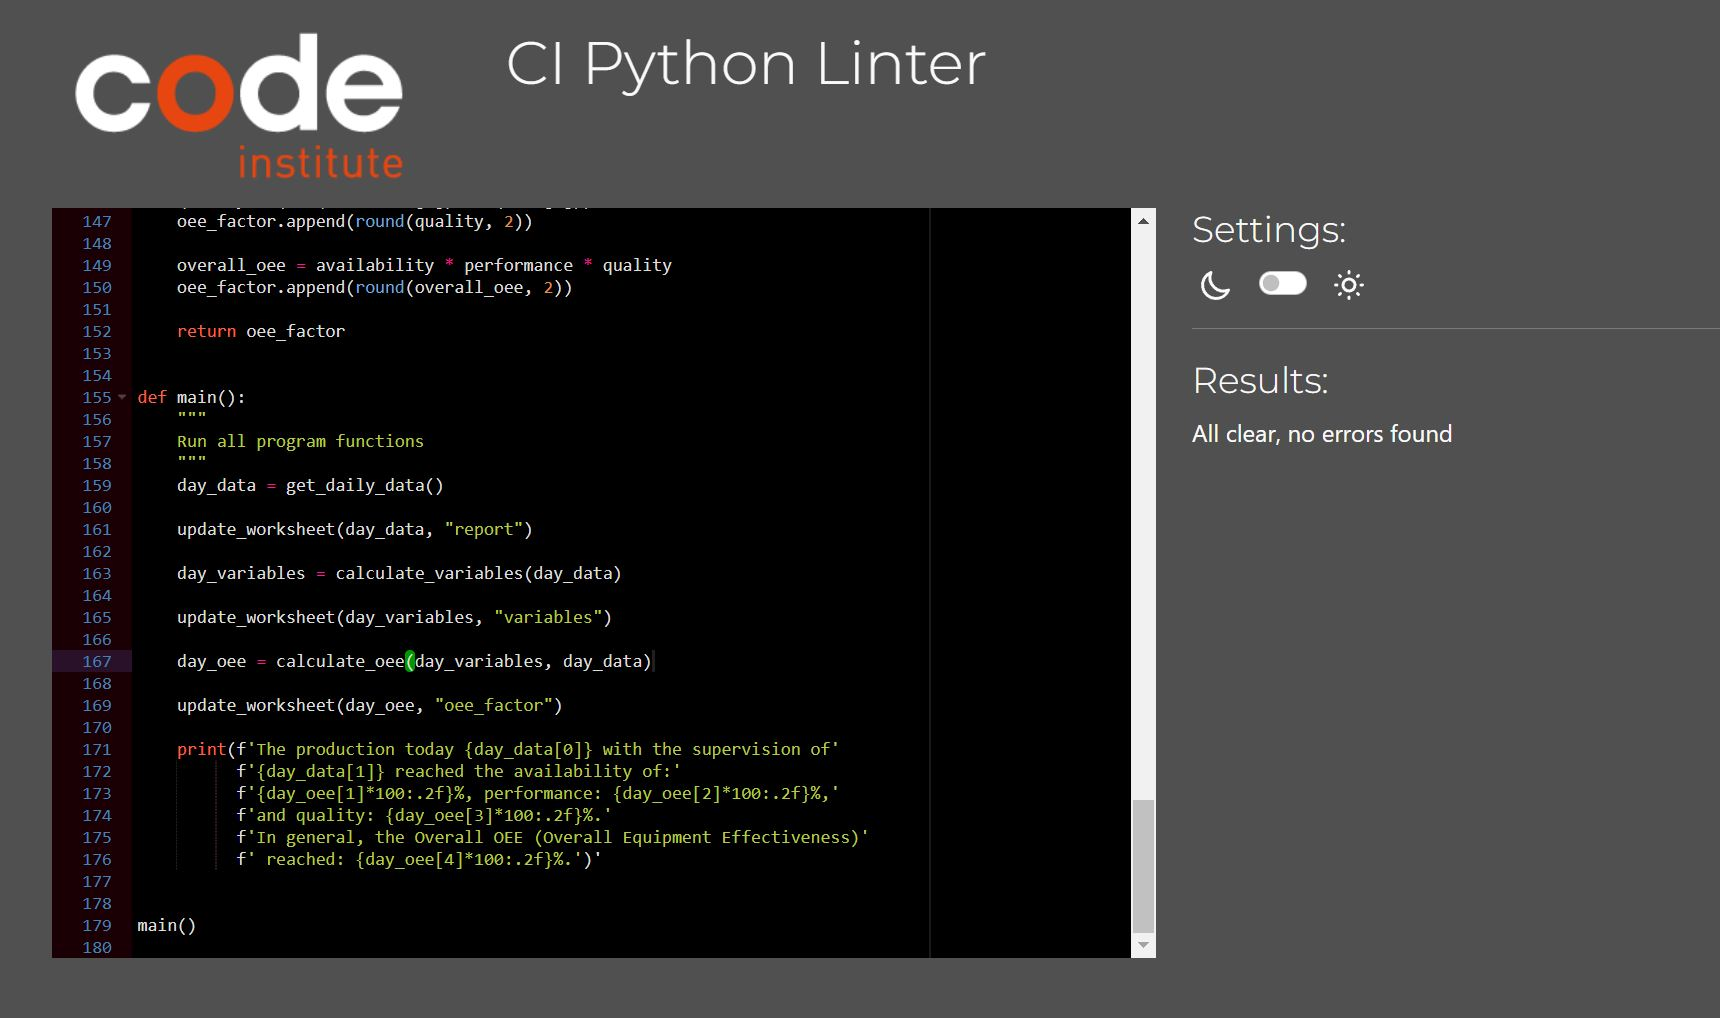
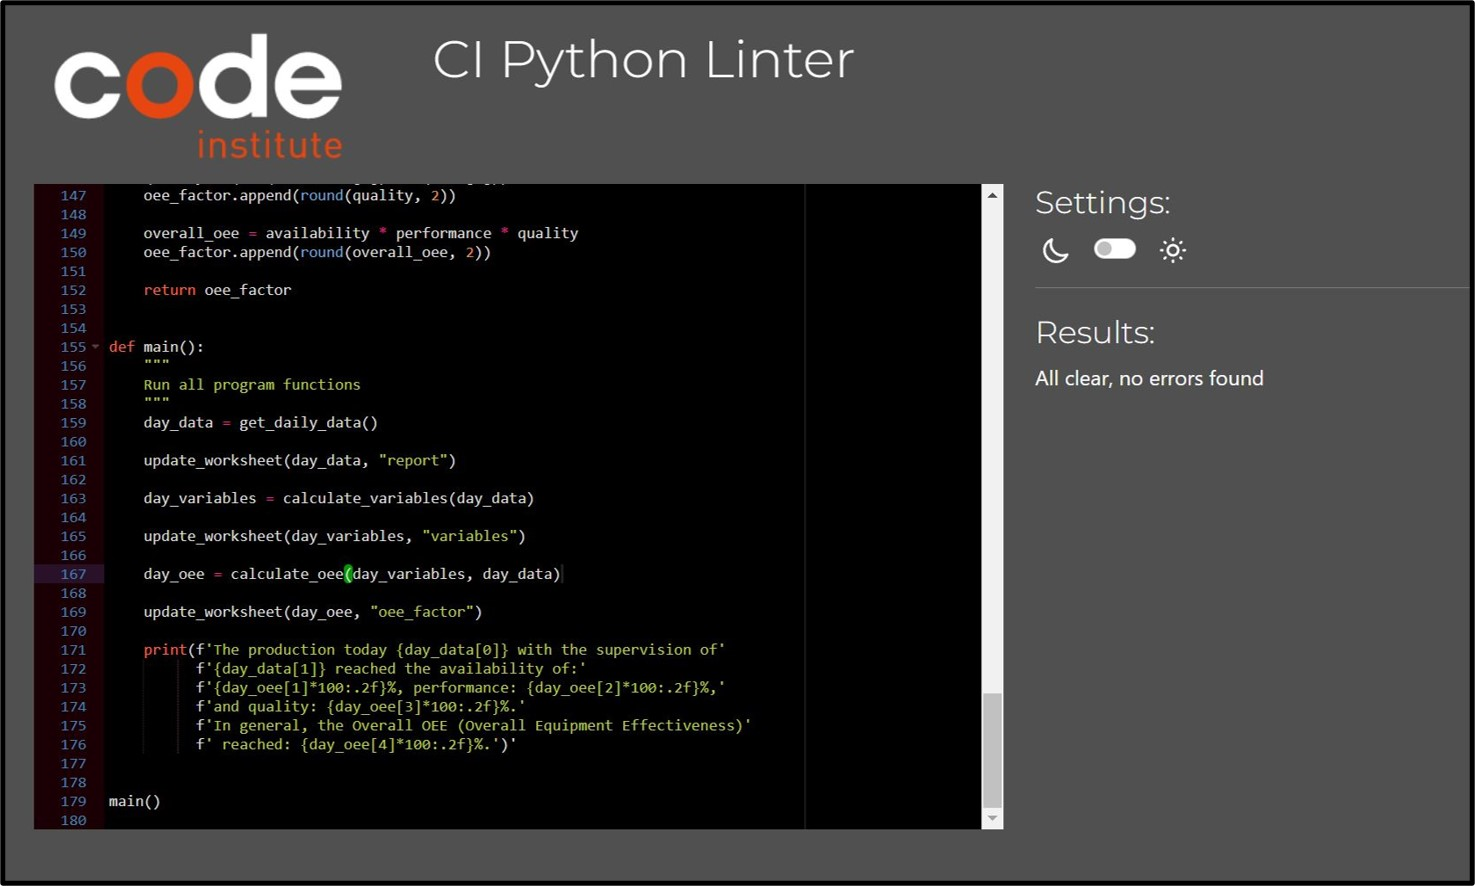
Add validation images to the readme

Changed region(s): [[0.0, 0.0, 1.0, 1.0]]

diff --git a/README.md b/README.md
@@ -134,6 +134,7 @@ The Google Sheets API enables developers to read, write, and manipulate Google S
 - **Google Cloud Services** APIs to access and manipulate cloud based files
 - **Google Drive** Store data in a googlesheet 
 - **Google Sheet** Data Storage
+- **Miro** Flowchart and design thinking
 
 # Libraries
 - **googleauth** to access googledrive and googlesheet using the api
@@ -214,8 +215,15 @@ After deployment, a batch of tests has been conducted, and the results are shown
 
 
 #### Python
-- Using the [JShint](https://jshint.com/) inspect and validate the JavaScript bellow has a image showing the result.
+- Using the [CI Python Linter - Code institute](https://pep8ci.herokuapp.com/) inspect and validate the python bellow has a image showing the result.
 
+## Before validation
+
+![Python code before validation](docs/readme_images/ci-python-code.jpg)
+
+## After validation
+
+![Python code after validation](docs/readme_images/ci-python-code-noerror.jpg)
 
 ## Deployment
 
@@ -248,7 +256,7 @@ After deployment, a batch of tests has been conducted, and the results are shown
   5. Move to the folder you want clone it
   6. In the terminal type 'git clone' & then paste the link you copied in GitHub
   7. Press enter and your local clone will be created.
-- Live link: [GitHub Link](https://github.com/Volneirj/adventurers-guild)
+- Live link: [GitHub Link](https://https://github.com/Volneirj/oee-calculator)
 
 
 ## Credits
@@ -256,10 +264,8 @@ After deployment, a batch of tests has been conducted, and the results are shown
 
 1. **Base Code reference** 
 
-    - I used from the video bellow the idea how I would start the code, as it is using java, I convert the idea to java script, implementing new functions and making the game more dynamic as the example the function bellow, replacing the writing input "1", to my attackButton function which is triggered by a listener.
-    - [Java ForBegginers](https://www.youtube.com/watch?v=EpB9u4ItOYU&t=1284s&ab_channel=Codecourse)
-    ![Java Attack Code](docs/readme_images/java-attack.jpg)
-    ![Attack Button](docs/readme_images/attack-button.jpg)    
+    - The 
+    - 
 
 2. **AI Search Engine:**
 
